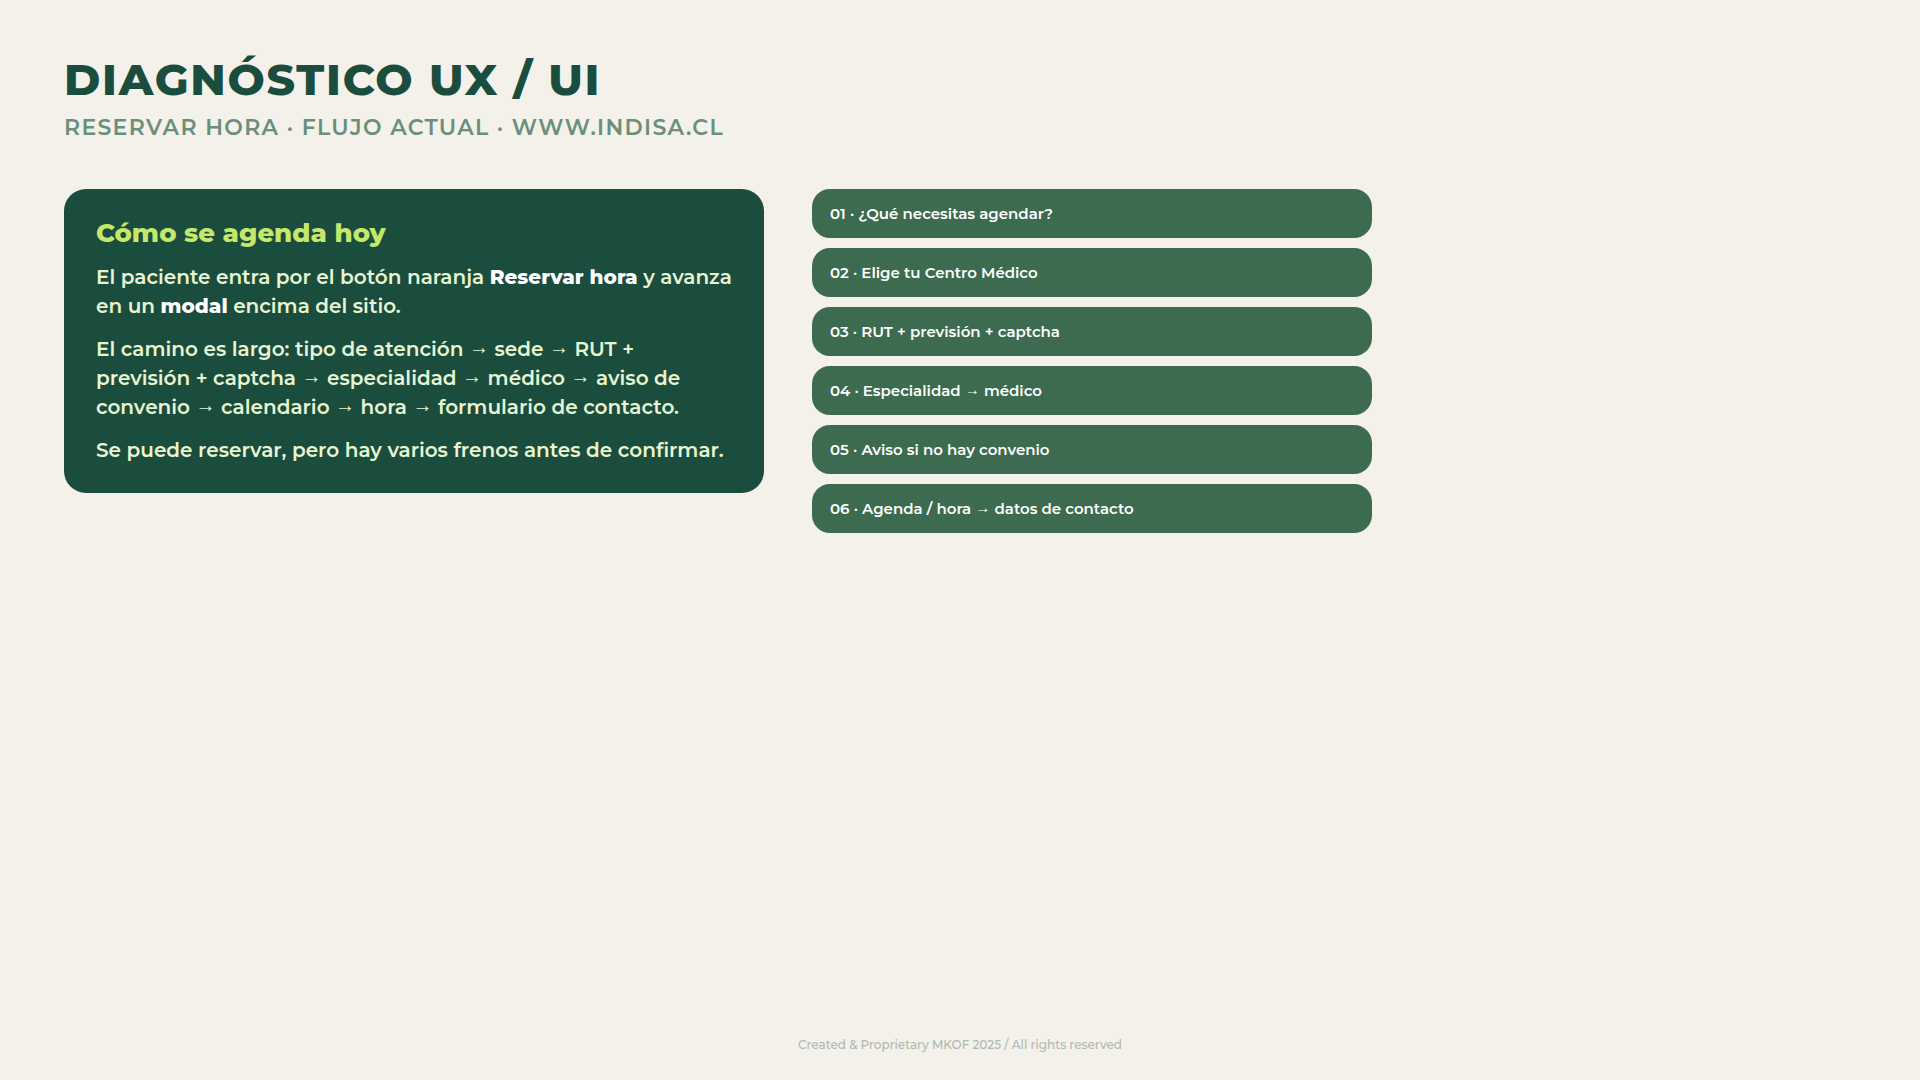
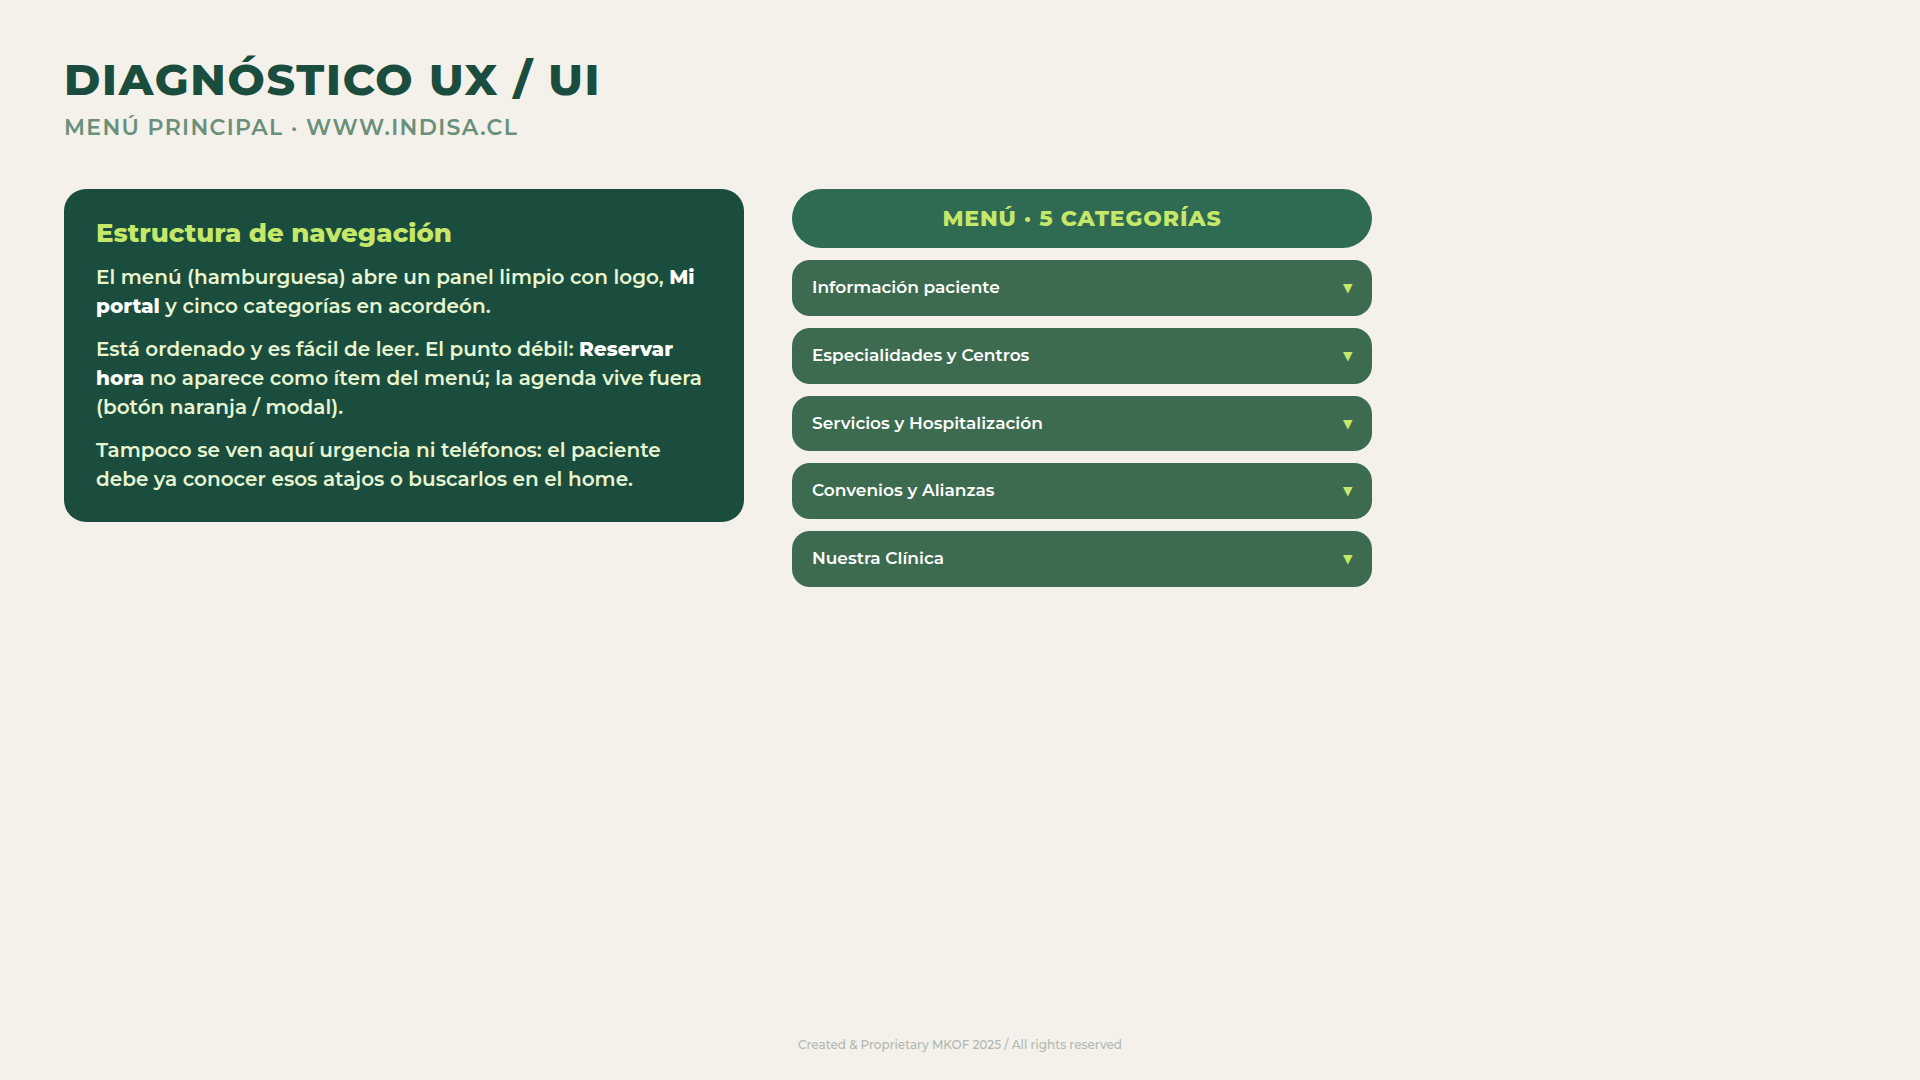
Agregar lámina menú principal Indisa al diagnóstico UX/UI
Documenta las 5 categorías del menú hamburguesa y separa el
flujo Reservar hora en 04b; recomienda incluir Reserva en el menú.

Changed region(s): [[0.0312, 0.1833, 0.7188, 0.55], [0.0312, 0.0917, 0.375, 0.1222]]

diff --git a/index/clientes/mkof/prospecto/clientes/clinica-indisa/UX-UI/laminas/04-estructura-navegacion.html b/index/clientes/mkof/prospecto/clientes/clinica-indisa/UX-UI/laminas/04-estructura-navegacion.html
@@ -2,28 +2,38 @@
 <html lang="es">
 <head>
   <meta charset="UTF-8">
-  <title>Navegación · Reserva</title>
+  <title>Menú principal · Indisa</title>
   <link rel="stylesheet" href="plantilla-mkof.css">
 </head>
 <body class="slide">
   <h1>DIAGNÓSTICO UX / UI</h1>
-  <div class="sub">RESERVAR HORA · FLUJO ACTUAL · WWW.INDISA.CL</div>
+  <div class="sub">MENÚ PRINCIPAL · WWW.INDISA.CL</div>
 
   <div style="display:flex;gap:48px;margin-top:48px;align-items:flex-start">
-    <div class="box" style="flex:1;max-width:700px">
-      <h2>Cómo se agenda hoy</h2>
-      <p>El paciente entra por el botón naranja <b style="color:#fff">Reservar hora</b> y avanza en un <b style="color:#fff">modal</b> encima del sitio.</p>
-      <p style="margin-top:14px">El camino es largo: tipo de atención → sede → RUT + previsión + captcha → especialidad → médico → aviso de convenio → calendario → hora → formulario de contacto.</p>
-      <p style="margin-top:14px">Se puede reservar, pero hay varios frenos antes de confirmar.</p>
+    <div class="box" style="flex:1;max-width:680px">
+      <h2>Estructura de navegación</h2>
+      <p>El menú (hamburguesa) abre un panel limpio con logo, <b style="color:#fff">Mi portal</b> y cinco categorías en acordeón.</p>
+      <p style="margin-top:14px">Está ordenado y es fácil de leer. El punto débil: <b style="color:#fff">Reservar hora</b> no aparece como ítem del menú; la agenda vive fuera (botón naranja / modal).</p>
+      <p style="margin-top:14px">Tampoco se ven aquí urgencia ni teléfonos: el paciente debe ya conocer esos atajos o buscarlos en el home.</p>
     </div>
 
-    <div style="width:560px;display:flex;flex-direction:column;gap:10px">
-      <div class="rec" style="padding:14px 18px;font-size:15px">01 · ¿Qué necesitas agendar?</div>
-      <div class="rec" style="padding:14px 18px;font-size:15px">02 · Elige tu Centro Médico</div>
-      <div class="rec" style="padding:14px 18px;font-size:15px">03 · RUT + previsión + captcha</div>
-      <div class="rec" style="padding:14px 18px;font-size:15px">04 · Especialidad → médico</div>
-      <div class="rec" style="padding:14px 18px;font-size:15px">05 · Aviso si no hay convenio</div>
-      <div class="rec" style="padding:14px 18px;font-size:15px">06 · Agenda / hora → datos de contacto</div>
+    <div style="width:580px;display:flex;flex-direction:column;gap:12px">
+      <div class="cap" style="text-align:center;width:100%">MENÚ · 5 CATEGORÍAS</div>
+      <div class="rec" style="padding:16px 20px;font-size:17px;display:flex;justify-content:space-between;align-items:center">
+        <span>Información paciente</span><span style="color:#c6e86a">▾</span>
+      </div>
+      <div class="rec" style="padding:16px 20px;font-size:17px;display:flex;justify-content:space-between;align-items:center">
+        <span>Especialidades y Centros</span><span style="color:#c6e86a">▾</span>
+      </div>
+      <div class="rec" style="padding:16px 20px;font-size:17px;display:flex;justify-content:space-between;align-items:center">
+        <span>Servicios y Hospitalización</span><span style="color:#c6e86a">▾</span>
+      </div>
+      <div class="rec" style="padding:16px 20px;font-size:17px;display:flex;justify-content:space-between;align-items:center">
+        <span>Convenios y Alianzas</span><span style="color:#c6e86a">▾</span>
+      </div>
+      <div class="rec" style="padding:16px 20px;font-size:17px;display:flex;justify-content:space-between;align-items:center">
+        <span>Nuestra Clínica</span><span style="color:#c6e86a">▾</span>
+      </div>
     </div>
   </div>
 

diff --git a/index/clientes/mkof/prospecto/clientes/clinica-indisa/UX-UI/laminas/04b-reservar-flujo.html b/index/clientes/mkof/prospecto/clientes/clinica-indisa/UX-UI/laminas/04b-reservar-flujo.html
@@ -1,0 +1,32 @@
+<!DOCTYPE html>
+<html lang="es">
+<head>
+  <meta charset="UTF-8">
+  <title>Reservar hora · Flujo</title>
+  <link rel="stylesheet" href="plantilla-mkof.css">
+</head>
+<body class="slide">
+  <h1>DIAGNÓSTICO UX / UI</h1>
+  <div class="sub">RESERVAR HORA · FLUJO ACTUAL · WWW.INDISA.CL</div>
+
+  <div style="display:flex;gap:48px;margin-top:48px;align-items:flex-start">
+    <div class="box" style="flex:1;max-width:700px">
+      <h2>Cómo se agenda hoy</h2>
+      <p>El paciente entra por el botón naranja <b style="color:#fff">Reservar hora</b> y avanza en un <b style="color:#fff">modal</b> encima del sitio.</p>
+      <p style="margin-top:14px">El camino es largo: tipo de atención → sede → RUT + previsión + captcha → especialidad → médico → aviso de convenio → calendario → hora → formulario de contacto.</p>
+      <p style="margin-top:14px">Se puede reservar, pero hay varios frenos antes de confirmar.</p>
+    </div>
+
+    <div style="width:560px;display:flex;flex-direction:column;gap:10px">
+      <div class="rec" style="padding:14px 18px;font-size:15px">01 · ¿Qué necesitas agendar?</div>
+      <div class="rec" style="padding:14px 18px;font-size:15px">02 · Elige tu Centro Médico</div>
+      <div class="rec" style="padding:14px 18px;font-size:15px">03 · RUT + previsión + captcha</div>
+      <div class="rec" style="padding:14px 18px;font-size:15px">04 · Especialidad → médico</div>
+      <div class="rec" style="padding:14px 18px;font-size:15px">05 · Aviso si no hay convenio</div>
+      <div class="rec" style="padding:14px 18px;font-size:15px">06 · Agenda / hora → datos de contacto</div>
+    </div>
+  </div>
+
+  <div class="foot">Created & Proprietary MKOF 2025 / All rights reserved</div>
+</body>
+</html>

diff --git a/index/clientes/mkof/prospecto/clientes/clinica-indisa/UX-UI/index.html b/index/clientes/mkof/prospecto/clientes/clinica-indisa/UX-UI/index.html
@@ -113,7 +113,12 @@
       </a>
       <a class="ux-card" href="laminas/04-estructura-navegacion.html" target="_blank" rel="noopener">
         <img src="laminas/04-estructura-navegacion.png" alt="" loading="lazy" />
-        <strong>04 · Reservar hora</strong>
+        <strong>04 · Menú principal</strong>
+        <span>5 categorías en acordeón</span>
+      </a>
+      <a class="ux-card" href="laminas/04b-reservar-flujo.html" target="_blank" rel="noopener">
+        <img src="laminas/04b-reservar-flujo.png" alt="" loading="lazy" />
+        <strong>04b · Reservar hora</strong>
         <span>Flujo actual del modal de agenda</span>
       </a>
       <a class="ux-card" href="laminas/05-referentes.html" target="_blank" rel="noopener">

diff --git a/index/clientes/mkof/prospecto/clientes/clinica-indisa/UX-UI/laminas/07-recomendaciones.html b/index/clientes/mkof/prospecto/clientes/clinica-indisa/UX-UI/laminas/07-recomendaciones.html
@@ -10,7 +10,7 @@
   <div class="sub">RECOMENDACIONES · RESERVAR HORA</div>
 
   <div style="display:grid;grid-template-columns:repeat(4,1fr);gap:18px;margin-top:48px">
-    <div class="rec">Traer un <b>bloque de reserva</b> al primer pantallazo (no solo el modal).</div>
+    <div class="rec">Incluir <b>«Reservar hora»</b> (y urgencia) también dentro del menú principal.</div>
     <div class="rec">Mostrar <b>horas antes</b>: menos pasos previos a ver disponibilidad.</div>
     <div class="rec">Mover <b>RUT y captcha</b> más tarde en el flujo.</div>
     <div class="rec">Suavizar el aviso de <b>sin convenio</b> sin cortar la reserva.</div>
